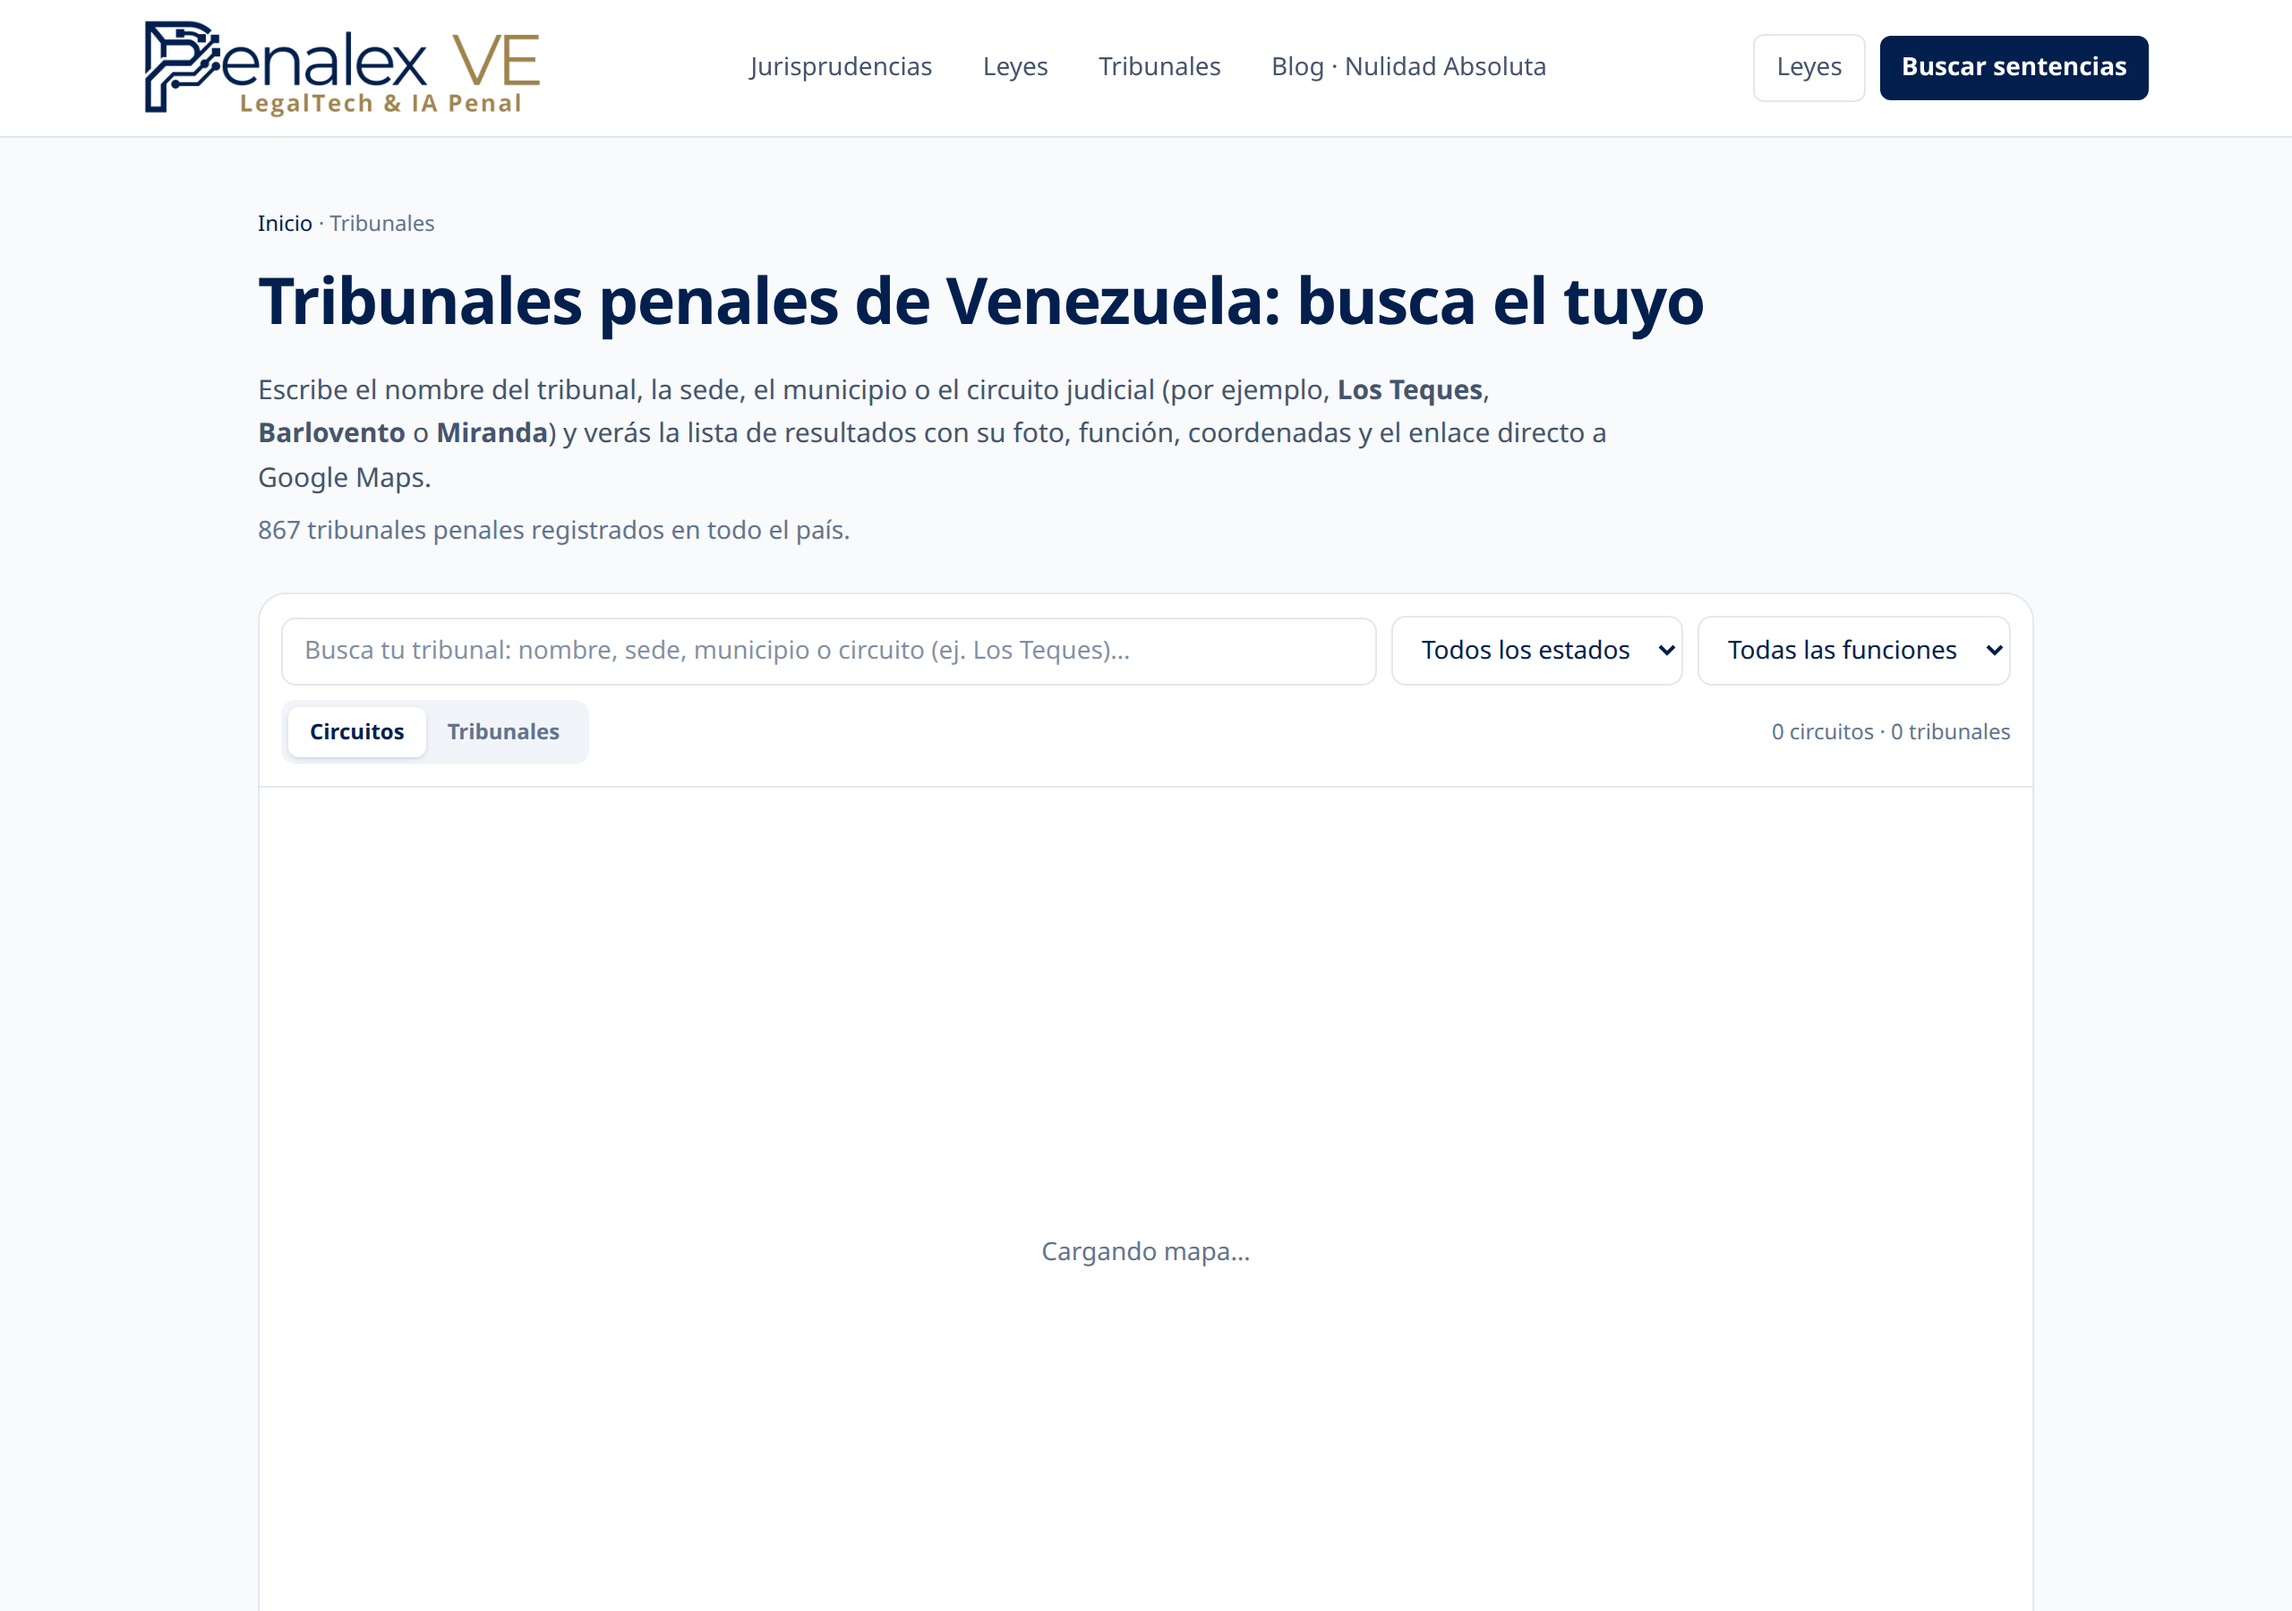
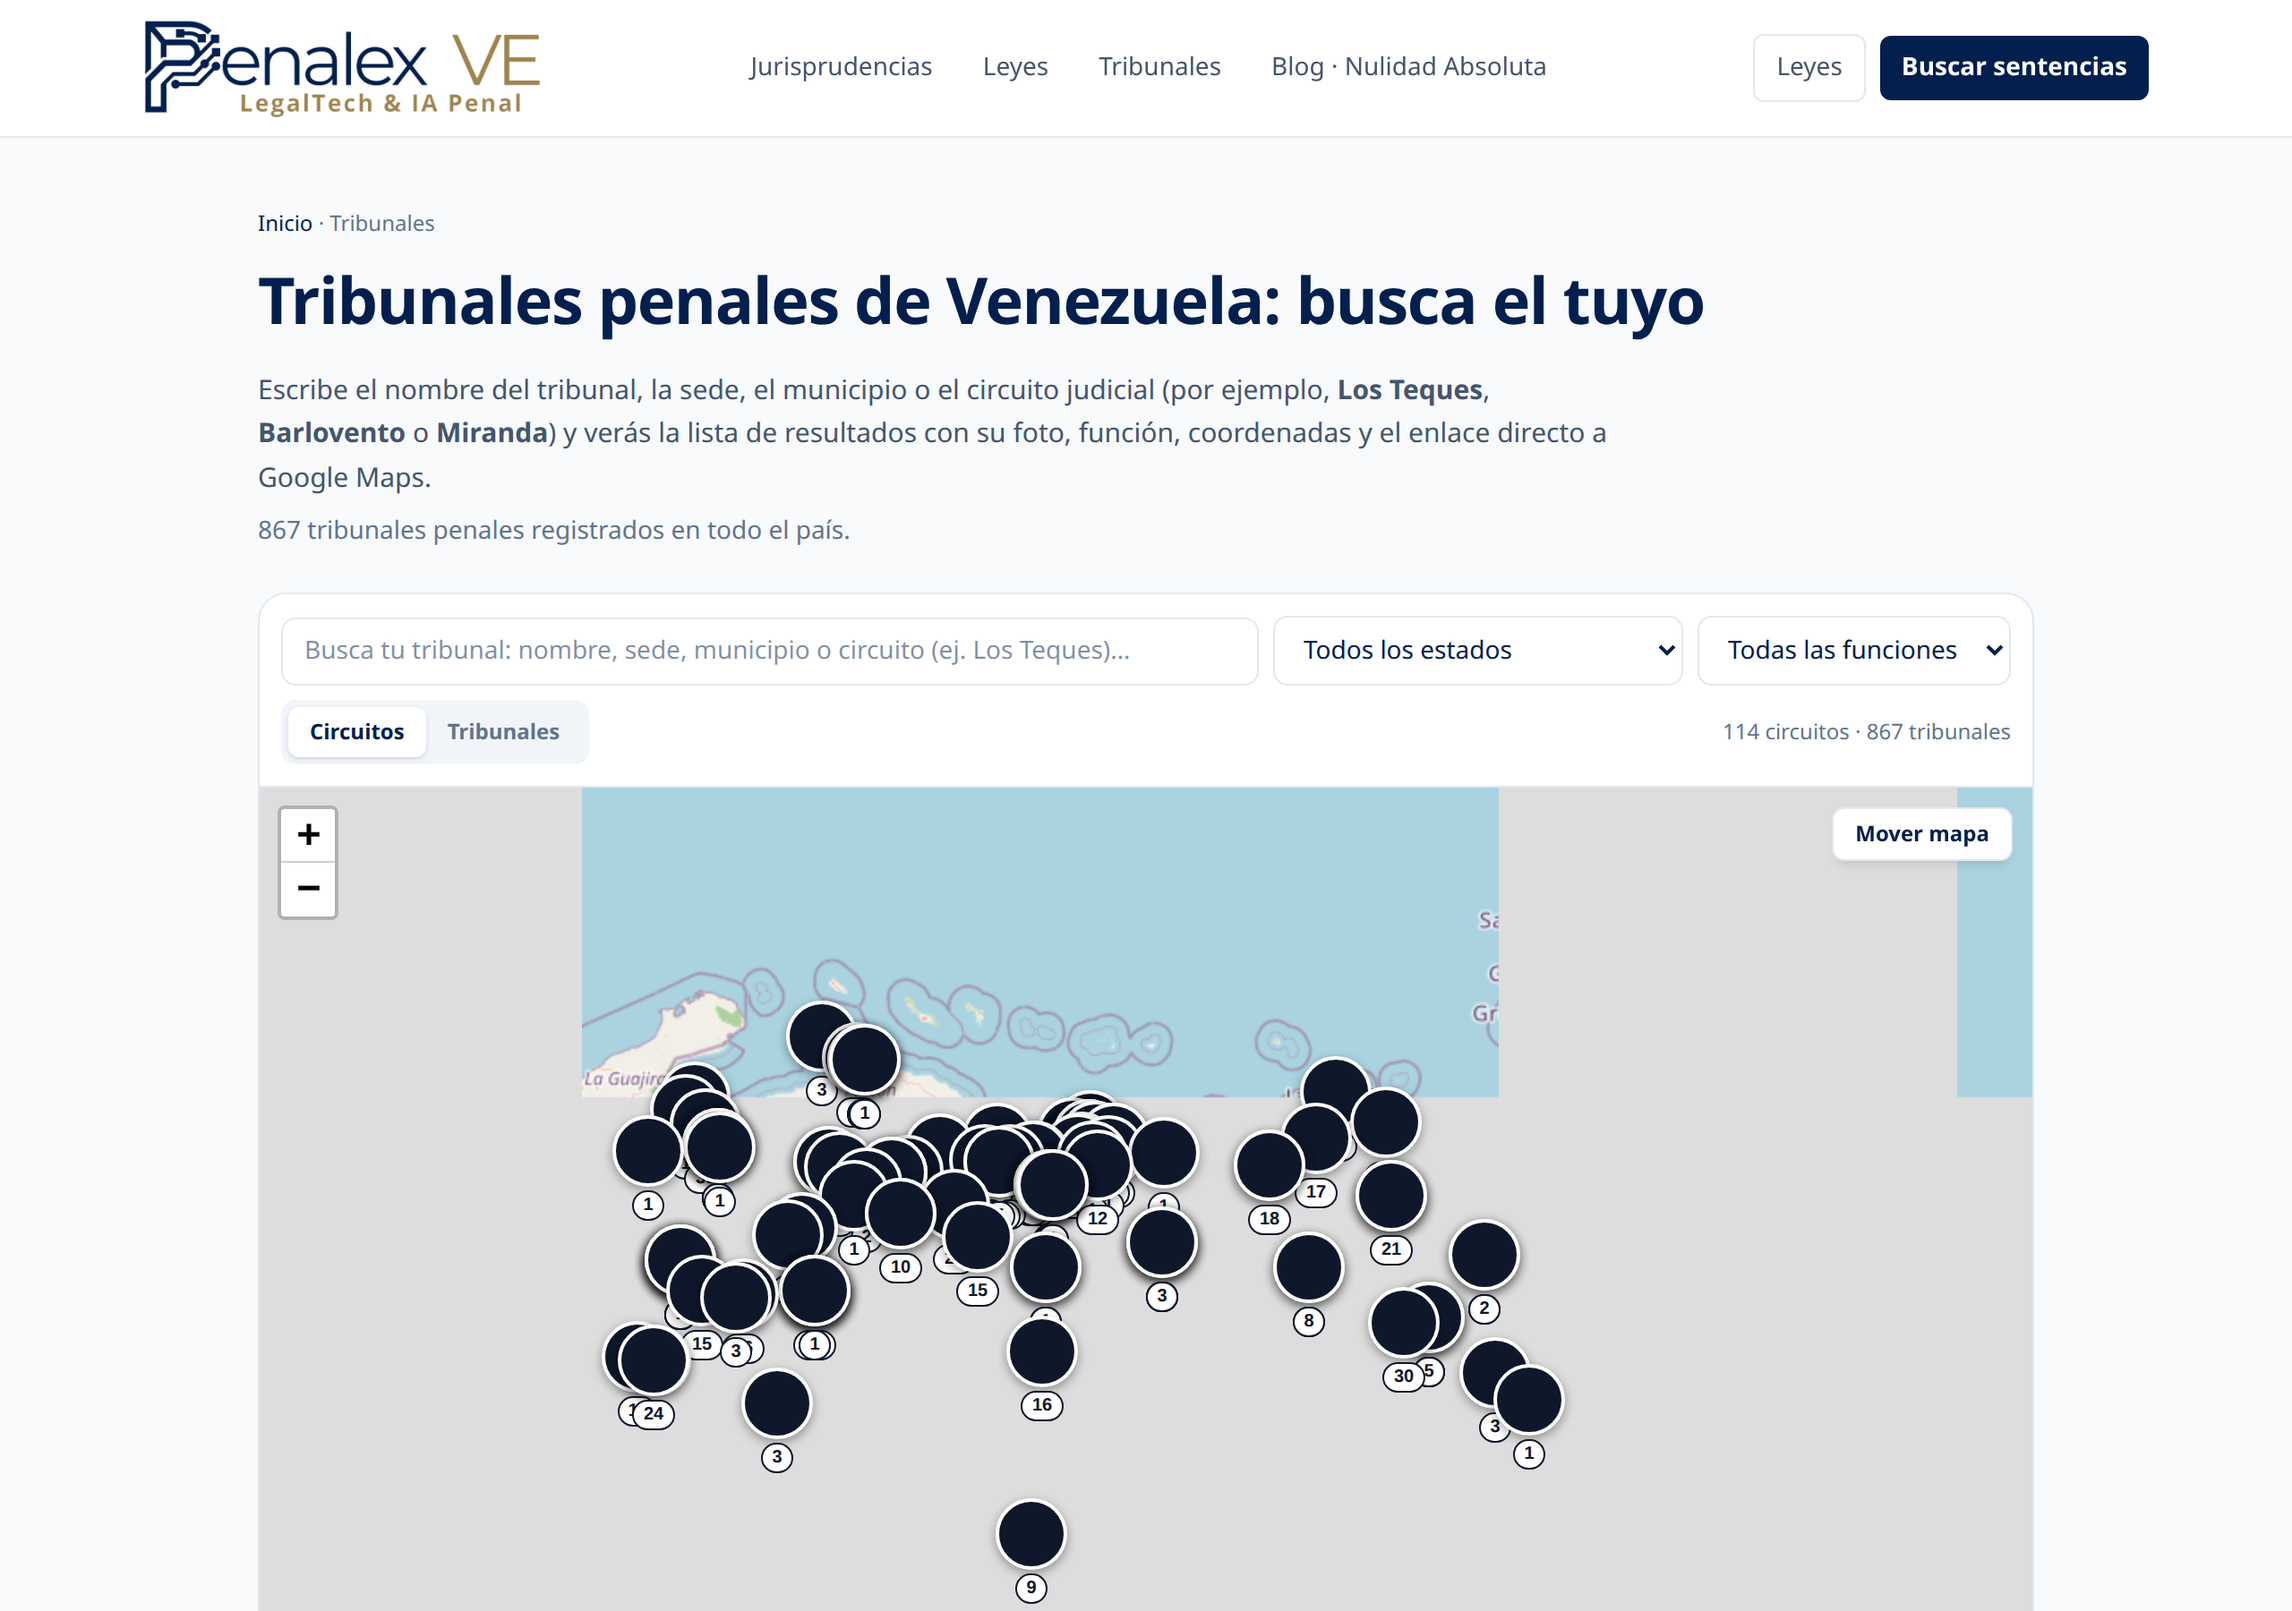
Tribunales: mapa carga (114 circuitos, 867 tribunales), marcadores mas pequenos y miniatura real

diff --git a/penalex-web/src/components/MapaTribunales.tsx b/penalex-web/src/components/MapaTribunales.tsx
@@ -180,9 +180,9 @@ export default function MapaTribunales() {
             className: "",
             html: `
               <div style="display:flex;flex-direction:column;align-items:center;gap:2px;">
-                <div style="width:40px;height:40px;border-radius:50%;background:${
+                <div style="width:26px;height:26px;border-radius:50%;background:${
                   seleccionado ? "#C5A059" : "#0F172A"
-                };border:2.5px solid #fff;display:flex;align-items:center;justify-content:center;font-size:19px;box-shadow:0 2px 6px rgba(0,0,0,.35);"></div>
+                };border:2.5px solid #fff;display:flex;align-items:center;justify-content:center;font-size:12px;box-shadow:0 2px 6px rgba(0,0,0,.35);"></div>
                 <div style="background:#fff;border:1px solid ${
                   seleccionado ? "#C5A059" : "#0F172A"
                 };border-radius:10px;font-size:10px;font-weight:800;color:${
